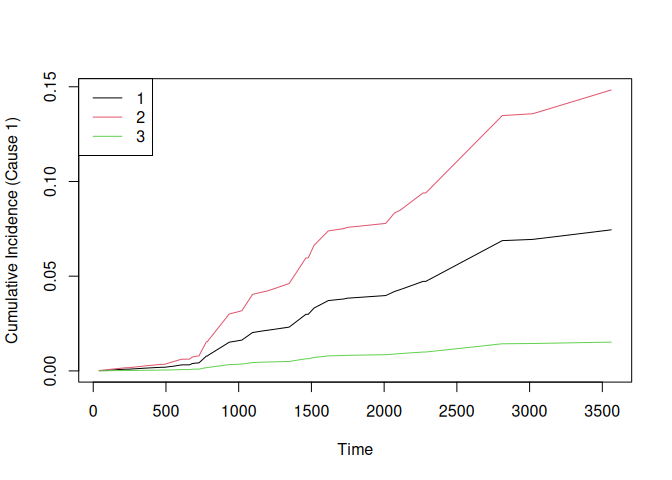
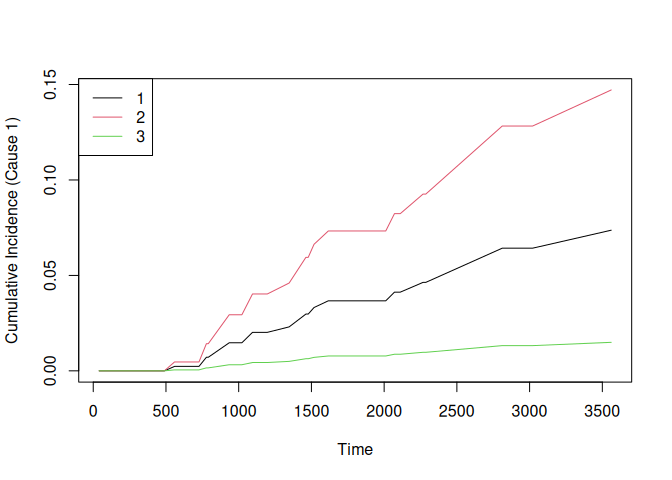
re-render README file

diff --git a/README.md b/README.md
@@ -102,10 +102,9 @@ maximal test set partial log-likelihood:
 print(cbfit$xnames[cbfit$coefficients[which.max(step_pll),] != 0])
 ```
 
-    #  [1] "V1"  "V2"  "V3"  "V4"  "V5"  "V6"  "V7"  "V8"  "V9"  "V10" "V12" "V18"
-    # [13] "V20" "V24" "V27" "V30" "V31" "V32" "V33" "V37" "V38" "V41" "V42" "V44"
-    # [25] "V53" "V56" "V59" "V63" "V69" "V71" "V72" "V73" "V76" "V78" "V80" "V82"
-    # [37] "V84" "V87" "V99"
+    #  [1] "V1"  "V2"  "V3"  "V4"  "V5"  "V6"  "V7"  "V8"  "V9"  "V10" "V12" "V18" "V20"
+    # [14] "V24" "V27" "V30" "V31" "V32" "V33" "V37" "V38" "V41" "V42" "V44" "V53" "V56"
+    # [27] "V59" "V63" "V69" "V71" "V72" "V73" "V76" "V78" "V80" "V82" "V84" "V87" "V99"
 
 We refit the `CoxBoost` model but with covariates 1 and 2 as mandatory:
 
@@ -205,8 +204,8 @@ str(cif_pred)
 ```
 
     # List of 2
-    #  $ 1: num [1:118, 1:42] 1.58e-04 2.50e-04 4.08e-05 2.72e-04 2.28e-04 ...
-    #  $ 2: num [1:118, 1:42] 0.000914 0.000526 0.001873 0.00042 0.001082 ...
+    #  $ 1: num [1:118, 1:42] 0 0 0 0 0 0 0 0 0 0 ...
+    #  $ 2: num [1:118, 1:42] 0.001072 0.000776 0.001914 0.000692 0.00131 ...
 
 The output prediction object is a list with two elements: one matrix for
 each cause (death and transplant), with the cumulative incidence
